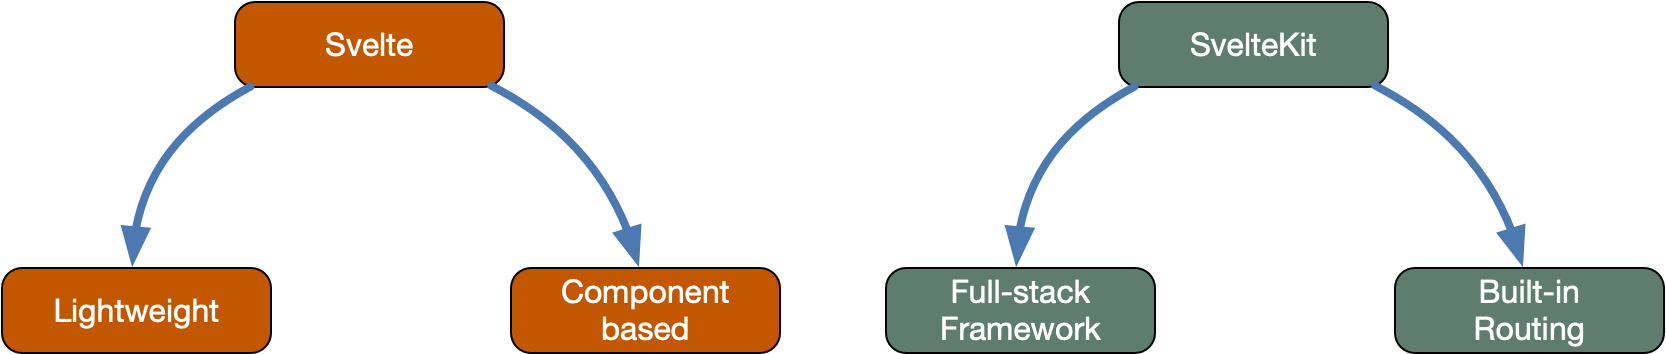
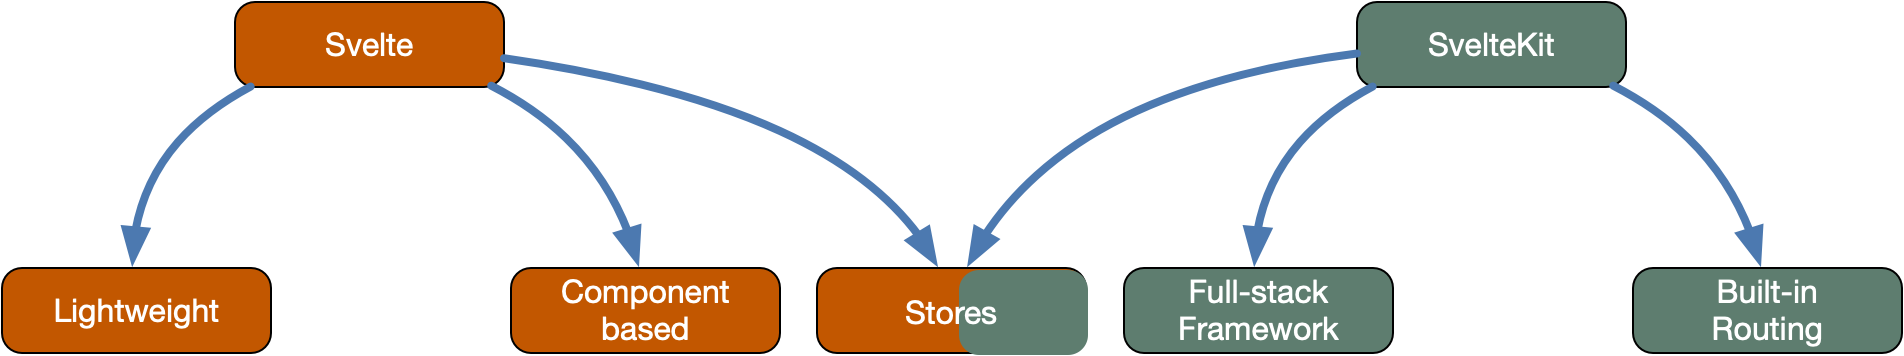
Updating part 1 slides

Changed region(s): [[0.0, 0.0, 0.9988, 1.0], [0.9988, 0.7768, 1.0, 0.9633]]

diff --git a/part1_slides.html b/part1_slides.html
@@ -18,6 +18,15 @@
 			<div class="slides">
 				<section data-markdown data-background-image="images/reveal_background.jpg" data-background-size="contain">
 					<textarea data-template>
+						# Making the web Svelter with SvelteKit
+						---
+						## $ ~ whoami
+
+						- I am Joachim Skeie
+						- Senior Consultant at Experis Norway
+						- Author of Ember.js in action (2014)
+						- Run a makerspace for kids (Skaperiet)
+						---
 						## What is Svelte
 						## and SvelteKit?
 
@@ -58,6 +67,7 @@
 							- Reactive Statements
 							- Stores
 							- No Virtual DOM (!!)
+							- Stores
 							- and much more
 						---
 						## Svelte - The compiler
@@ -123,12 +133,27 @@
 						</code></pre>
 
 						---
+						## Svelte - Stores
+
+						- Allows multiple components to share state without passing data as props
+						- Has a **subscribe()**-function that will notify components when the store value change
+						- Stores are reactive
+							- Any component subscribing to the store will see any change made to the store
+						- A Svelte component can use the store via the $-handle
+						- Stores can be readable, writable or derived
+
+						---
 						## Svelte vs SvelteKit
 
 						<img src="images/part1_svelte_vs_kit.png" />
 
 						---
+						## SvelteKit
 
+						"SvelteKit is built on Svelte, a UI framework that uses a compiler to let you write breathtakingly concise components that do minimal work in the browser, using languages you already know — HTML, CSS and JavaScript. It's a love letter to web development."
+
+						<div style="text-align: right">- <a href="https://kit.svelte.dev" target="_blank">kit.svelte.dev</a></div>
+						---
 						## SvelteKit - The meta framework
 
 						- SvelteKit adds additional features that are needed to build fuill-stack applications
@@ -141,6 +166,36 @@
 							- etc
 
 						---
+						## SvelteKit - ServerSide Rendering
+
+						- SvelteKit supports SSR, ensures your app is both fast and supports SEO
+							- SSR sends a complete website to the browser
+							- Hydration ensures SPA-features users expects from modern webapps
+
+						---
+						## SvelteKit - Routing
+
+						- SvelteKit includes a built-in directory-based router that ensures:
+							- URLs are human readable
+							- Consistent directory-structure
+							- Splits your code into essentialy "page-based components" and site-wide components
+
+						---
+						## SvelteKit - Routing
+
+						<img src="images/part1_svelte_dirstructure.png" style="height: 700px" />
+
+						---
+						## SvelteKit - Adaptability
+
+						- SvelteKit is designed to be adaptable
+						- Has built-in support for multiple build and deploy targets
+							- Cloudflare
+							- Netlify
+							- Node
+							- Vercel
+							- Static
+							- A range of community developed adapters
 					</textarea>
 				</section>
 
